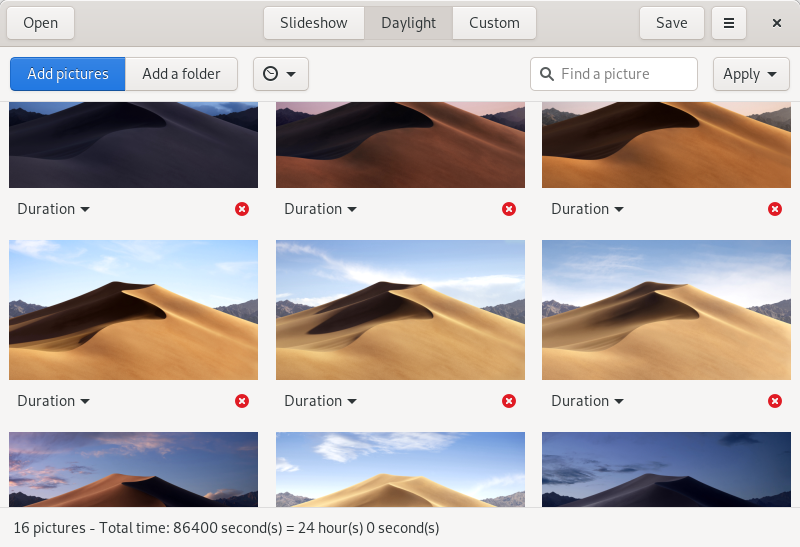
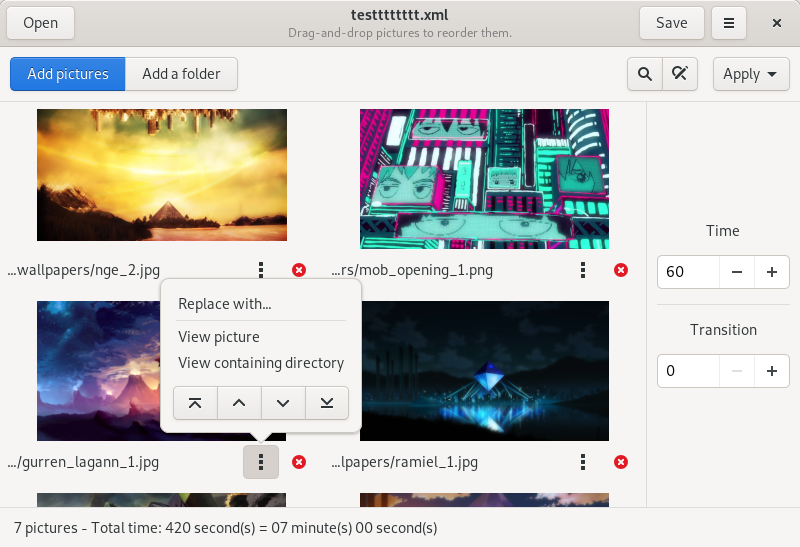
Update the help manual and screenshots

diff --git a/src/window.py b/src/window.py
@@ -32,8 +32,9 @@ class DWEWindow(Gtk.ApplicationWindow):
 
 	_settings = Gio.Settings.new('com.github.maoschanz.DynamicWallpaperEditor')
 
-	start_btn = Gtk.Template.Child()
 	menu_btn = Gtk.Template.Child()
+
+	start_btn = Gtk.Template.Child()
 	apply_btn = Gtk.Template.Child()
 	search_entry = Gtk.Template.Child()
 	replace_entry = Gtk.Template.Child()
@@ -161,22 +162,20 @@ class DWEWindow(Gtk.ApplicationWindow):
 		self.add_action_simple('pic_down', self.action_pic_down, None)
 		self.add_action_simple('pic_last', self.action_pic_last, None)
 
-		self.add_action_simple('set_as_wallpaper', \
-		                                 self.action_set_wallpaper, ['<Ctrl>r'])
-		self.add_action_simple('set_as_lockscreen', \
-		                                self.action_set_lockscreen, ['<Ctrl>l'])
-		self.lookup_action('set_as_wallpaper').set_enabled(False)
-		self.lookup_action('set_as_lockscreen').set_enabled(False)
+		self.add_action_simple('set_wp', self.action_set_wallpaper, ['<Ctrl>r'])
+		self.add_action_simple('set_ls', self.action_set_lockscreen, ['<Ctrl>l'])
+		self.lookup_action('set_wp').set_enabled(False)
+		self.lookup_action('set_ls').set_enabled(False)
 
-		saved_value = self._settings.get_string('display-mode')
+		saved_value = self._settings.get_string('display-mode') # grid or list
 		action_display = Gio.SimpleAction().new_stateful('display-mode', \
 		                                   GLib.VariantType.new('s'),
 		                                   GLib.Variant.new_string(saved_value))
 		action_display.connect('change-state', self.on_view_changed)
 		self.add_action(action_display)
 
-		self.add_action_boolean('same_duration', False, self.set_type_slideshow)
-		self.add_action_boolean('total_24', False, self.set_type_daylight)
+		self.add_action_boolean('same_duration', False, self.update_type_slideshow)
+		self.add_action_boolean('total_24', False, self.update_type_daylight)
 
 		self.find_rbtn1.connect('toggled', self.radio_btn_helper, 'find')
 		self.find_rbtn2.connect('toggled', self.radio_btn_helper, 'replace')
@@ -218,38 +217,10 @@ class DWEWindow(Gtk.ApplicationWindow):
 	############################################################################
 	# Wallpaper type ###########################################################
 
-	def radio_btn_helper(self, *args):
-		if not args[0].get_active():
-			return
-		compact_to_replace = (args[1] == 'replace')
-		self.replace_box.set_visible(compact_to_replace)
-		self.set_addpic_compact(compact_to_replace)
-		self.set_adddir_compact(compact_to_replace)
-		if args[1] == 'hide':
-			self.find_btns_box.set_visible(True)
-			self.search_box.set_visible(False)
-		else:
-			self.find_btns_box.set_visible(False)
-			self.search_box.set_visible(True)
-			self.search_entry.grab_focus()
-
-	def on_change_wallpaper_type(self, *args):
-		new_value = args[1].get_string()
-		if new_value == 'slideshow':
-			self.set_type_slideshow()
-		elif new_value == 'daylight':
-			self.set_type_daylight()
-		else: # elif new_value == 'custom':
-			self.set_type_custom()
-		args[0].set_state(GLib.Variant.new_string(new_value))
-		self.update_status()
-
 	def auto_detect_type(self):
 		is_daylight = self.get_total_time() == 86400
-		gvbool1 = GLib.Variant.new_boolean(is_daylight)
-		self.lookup_action('total_24').set_state(gvbool1)
-		gvb = GLib.Variant.new_boolean(self.is_slideshow() and not is_daylight)
-		self.lookup_action('same_duration').set_state(gvb)
+		self.set_type_daylight(is_daylight)
+		self.set_type_slideshow(self.is_slideshow() and not is_daylight)
 
 	def is_slideshow(self):
 		same, st, tr = self.view.all_have_same_time()
@@ -257,23 +228,33 @@ class DWEWindow(Gtk.ApplicationWindow):
 		self.trans_time_btn.set_value(tr)
 		return same
 
-	def set_type_slideshow(self, *args):
+	def update_type_slideshow(self, *args):
 		is_now_slideshow = not args[0].get_state()
-		args[0].set_state(GLib.Variant.new_boolean(is_now_slideshow))
+		self.set_type_slideshow(is_now_slideshow)
+
+	def set_type_slideshow(self, is_now_slideshow):
+		gvb = GLib.Variant.new_boolean(is_now_slideshow)
+		self.lookup_action('same_duration').set_state(gvb)
 		self.start_btn.set_visible(not is_now_slideshow)
 		if is_now_slideshow:
-			gvbool2 = GLib.Variant.new_boolean(False)
-			self.lookup_action('total_24').set_state(gvbool2)
-		self.update_global_time_box()
+			self.set_type_daylight(False)
+		is_24 = self.lookup_action('total_24').get_state()
+		self.update_global_time_box(is_now_slideshow, is_24)
 
-	def set_type_daylight(self, *args):
+	def update_type_daylight(self, *args):
 		is_now_daylight = not args[0].get_state()
-		args[0].set_state(GLib.Variant.new_boolean(is_now_daylight))
+		self.set_type_daylight(is_now_daylight)
+
+	def set_type_daylight(self, is_now_daylight):
+		gvb = GLib.Variant.new_boolean(is_now_daylight)
+		self.lookup_action('total_24').set_state(gvb)
 		self.set_check_24(is_now_daylight)
 		if is_now_daylight:
-			gvbool2 = GLib.Variant.new_boolean(False)
-			self.lookup_action('same_duration').set_state(gvbool2)
-		self.update_global_time_box()
+			self.set_type_slideshow(False)
+		else:
+			self.close_notification()
+		is_slideshow = self.lookup_action('same_duration').get_state()
+		self.update_global_time_box(is_slideshow, is_now_daylight)
 
 	############################################################################
 	# Wallpaper and lockscreen settings ########################################
@@ -293,10 +274,10 @@ class DWEWindow(Gtk.ApplicationWindow):
 		self.show_notification(_("This desktop environnement isn't supported."))
 		if is_lockscreen:
 			self.app.lookup_action('ls_options').set_enabled(False)
-			self.lookup_action('set_as_lockscreen').set_enabled(False)
+			self.lookup_action('set_ls').set_enabled(False)
 		else:
 			self.app.lookup_action('wp_options').set_enabled(False)
-			self.lookup_action('set_as_wallpaper').set_enabled(False)
+			self.lookup_action('set_wp').set_enabled(False)
 		return ''
 
 	############################################################################
@@ -311,10 +292,10 @@ class DWEWindow(Gtk.ApplicationWindow):
 	def fix_24(self, *args):
 		self.view.fix_24()
 
-	def update_global_time_box(self):
+	def update_global_time_box(self, is_global, is_daylight):
 		"""Show relevant spinbuttons based on the active options."""
-		is_global = self.lookup_action('same_duration').get_state()
-		is_daylight = self.lookup_action('total_24').get_state()
+		# is_global = self.lookup_action('same_duration').get_state()
+		# is_daylight = self.lookup_action('total_24').get_state()
 		self.time_box.set_visible(is_global)
 		self.time_box_separator.set_visible(is_global)
 		self.view.update_to_mode(is_global, is_daylight)
@@ -433,6 +414,22 @@ class DWEWindow(Gtk.ApplicationWindow):
 		self.view.abs_move_pic(self.view.length)
 
 	############################################################################
+	# Find and replace #########################################################
+
+	def radio_btn_helper(self, *args):
+		if not args[0].get_active():
+			return
+		compact_to_replace = (args[1] == 'replace')
+		self.replace_box.set_visible(compact_to_replace)
+		self.set_addpic_compact(compact_to_replace)
+		self.set_adddir_compact(compact_to_replace)
+		if args[1] == 'hide':
+			self.find_btns_box.set_visible(True)
+			self.search_box.set_visible(False)
+		else:
+			self.find_btns_box.set_visible(False)
+			self.search_box.set_visible(True)
+			self.search_entry.grab_focus()
 
 	def action_find(self, *args):
 		self.find_rbtn1.set_active(True)
@@ -530,8 +527,8 @@ class DWEWindow(Gtk.ApplicationWindow):
 		if self.load_list_from_xml():
 			self.update_win_title(self.gio_file.get_path().split('/')[-1])
 			self.auto_detect_type()
-			self.lookup_action('set_as_wallpaper').set_enabled(True)
-			self.lookup_action('set_as_lockscreen').set_enabled(True)
+			self.lookup_action('set_wp').set_enabled(True)
+			self.lookup_action('set_ls').set_enabled(True)
 			self._is_saved = True
 		else:
 			self.gio_file = None
@@ -635,8 +632,8 @@ class DWEWindow(Gtk.ApplicationWindow):
 		self.gio_file.replace_contents(contents, None, False, \
 		                                         Gio.FileCreateFlags.NONE, None)
 		self._is_saved = True
-		self.lookup_action('set_as_wallpaper').set_enabled(True)
-		self.lookup_action('set_as_lockscreen').set_enabled(True)
+		self.lookup_action('set_wp').set_enabled(True)
+		self.lookup_action('set_ls').set_enabled(True)
 
 	def update_win_title(self, file_name):
 		self.set_title(file_name)
@@ -658,8 +655,8 @@ class DWEWindow(Gtk.ApplicationWindow):
 		file_chooser.set_do_overwrite_confirmation(True)
 		response = file_chooser.run()
 		if response == Gtk.ResponseType.ACCEPT:
-			self.lookup_action('set_as_wallpaper').set_enabled(True)
-			self.lookup_action('set_as_lockscreen').set_enabled(True)
+			self.lookup_action('set_wp').set_enabled(True)
+			self.lookup_action('set_ls').set_enabled(True)
 			self.gio_file = file_chooser.get_file()
 			self.update_win_title(self.gio_file.get_path().split('/')[-1])
 			is_saved = True

diff --git a/src/view.py b/src/view.py
@@ -32,6 +32,7 @@ class DWEAbstractView():
 		widget.set_sort_func(self.sort_view)
 		widget.set_filter_func(self.filter_view)
 		self.window.scrolled_window.add(widget)
+		self.update_length() # because it couldn't be done before
 
 	def destroy(self):
 		self.reset_view()
@@ -41,6 +42,13 @@ class DWEAbstractView():
 
 	def set_unsaved(self):
 		self.window._is_saved = False
+
+	def update_subtitle(self, is_empty):
+		if is_empty:
+			label = _("Add new pictures, or open an existing XML file.")
+		else:
+			label = _("Drag-and-drop pictures to reorder them.")
+		self.window.get_titlebar().set_subtitle(label)
 
 	############################################################################
 
@@ -52,6 +60,7 @@ class DWEAbstractView():
 
 	def update_length(self):
 		self.length = len(self.get_view_widget().get_children())
+		self.update_subtitle(self.length == 0)
 
 	def restack_indexes(self):
 		"""Ensure rows' self.indx attribute corresponds to the actual index of
